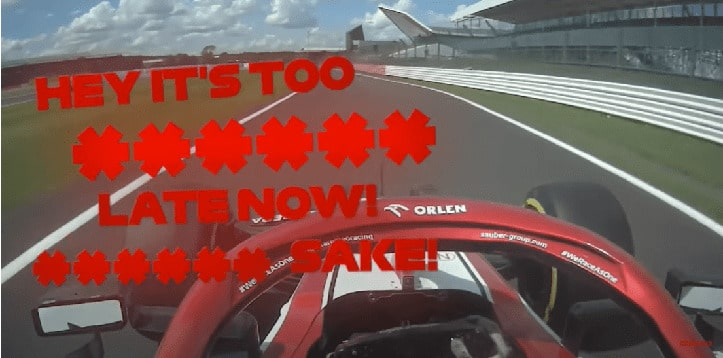
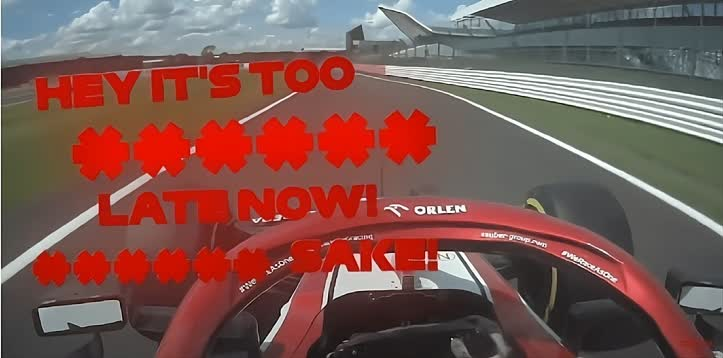
Update image quality

diff --git a/f1t/__init__.py b/f1t/__init__.py
@@ -1,1 +1,1 @@
-__version__ = "2.14.1"
+__version__ = "2.14.2"

diff --git a/CHANGELOG.md b/CHANGELOG.md
@@ -15,6 +15,14 @@ and this project adheres to [Semantic Versioning](https://semver.org/spec/v2.0.0
 ### Security
 -->
 
+## [2.14.2] - 2024-12-19
+### Changed
+- radio_check and toolate jpg quality is enhanced
+
+## [2.14.1] - 2024-12-17
+### Changed
+- Database backup script
+
 ## [2.14.0] - 2024-12-16
 ### Changed
 - Database backup script
